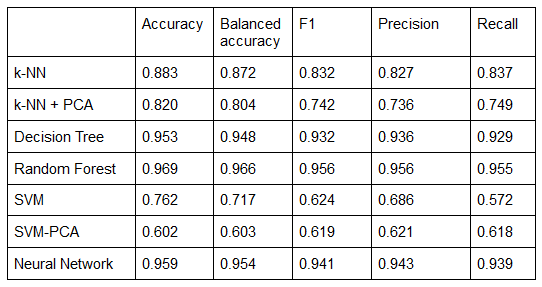
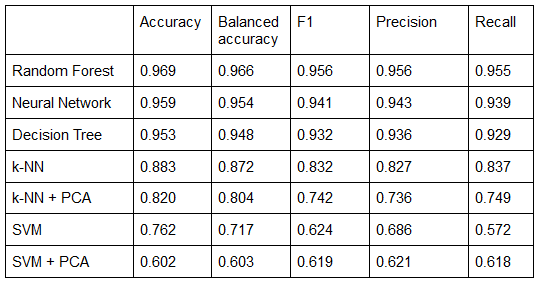
sorted by accuracy

Changed region(s): [[0.0, 0.0, 1.0, 0.9929]]

diff --git a/README.md b/README.md
@@ -84,22 +84,47 @@ Our work is directly useful in a real-world situation: it could be implemented i
 
 ### Supervised Learning
 
-### 1. Decision Tree
+### 1. Random Forest
 
-Decision Tree
-    * We used a single decision tree and evaluated the model performance with different max_depths ranging from 5 to 80 (in increments of 10). We additionally varied the search criteria, selecting entropy and gini as potential solutions. We ultimately found that the entropy criterion with a max depth of 20 was the best.
-    * We used grid search to optimize hyperparameters on the validation dataset, namely: 
-        * Criterion (gini or entropy)
-        * Max depth
-    * The best decision tree was the one with entropy criterion and max depth of 20: [Accuracy: 0.950, Balanced accuracy: 0.945, F1: 0.928, Precision: 0.926, Recall: 0.930]
-    * We retrained a decision tree with these hyperparameters on merged training and validation data and it yielded the following test results:
-        * F1: 0.932
-        * Accuracy: 0.953
-        * Balanced accuracy: 0.948
-        * MCC: 0.897
-        * Precision: 0.936
-        * Recall: 0.929
-        * FPR: 0.034
+* We used random forest and we tested it with different max_depths from 5 to 50  and n_estimators from 10 to 70. We found that test scores such as accuracies go up as max_depths and n_estimators increase until they reach a certain height. There are very little or no changes starting from max_depths of 30 and n_estimators of 40. The final scores are listed below:
+    * F1: 0.956
+    * Accuracy: 0.969
+    * Balanced accuracy: 0.966
+    * MCC: 0.932
+    * Precision: 0.956
+    * Recall: 0.955
+    * FPR: 0.023
+
+<img src="images\rf_result.png" alt="rf_result.png">
+
+### 2. Neural Net
+
+* We used a simple neural network with 3 hidden (linear) layers with ReLU activation functions, batch normalization, and dropouts after each linear layer with 0.1 probability. We could see that the results were quite good but even with hyperparameter tuning, the neural network couldn’t achieve better results. The final test results are as follows:
+    * F1: 0.956
+    * Accuracy: 0.969
+    * Balanced accuracy: 0.966
+    * MCC: 0.932
+    * Precision: 0.956
+    * Recall: 0.955
+    * FPR: 0.023
+
+<img src="images\nn_result.png" alt="nn_result.png">
+
+### 3. Decision Tree
+
+* We used a single decision tree and evaluated the model performance with different max_depths ranging from 5 to 80 (in increments of 10). We additionally varied the search criteria, selecting entropy and gini as potential solutions. We ultimately found that the entropy criterion with a max depth of 20 was the best.
+* We used grid search to optimize hyperparameters on the validation dataset, namely: 
+    * Criterion (gini or entropy)
+    * Max depth
+* The best decision tree was the one with entropy criterion and max depth of 20: [Accuracy: 0.950, Balanced accuracy: 0.945, F1: 0.928, Precision: 0.926, Recall: 0.930]
+* We retrained a decision tree with these hyperparameters on merged training and validation data and it yielded the following test results:
+    * F1: 0.932
+    * Accuracy: 0.953
+    * Balanced accuracy: 0.948
+    * MCC: 0.897
+    * Precision: 0.936
+    * Recall: 0.929
+    * FPR: 0.034
 
 <img src="images\dt_new_result.png" alt="dt_new_result.png">
 
@@ -112,65 +137,35 @@ Decision Tree
     * “time_domain_activation” corresponds to domain activation time (in days) - this sounds like a reasonable feature to be helpful to determine whether a web page is or is not phishing.
     * “directory_length” corresponds to the length of the directory section of URL - this might sound reasonable since phishing websites might try to use nested folders to create longer and therefore less readable URL.
 
-### 2. k-NN
+### 4. k-NN
 
-k-NN
-    * We used grid search to optimize hyperparameters on the validation dataset, namely: 
-        * Number of neighbors
-    * The best k-NN classifier was the one using a single neighbor (k = 1): Accuracy: 0.883, Balanced accuracy: 0.872, F1: 0.832, Precision: 0.827, Recall: 0.837
-    * We retrained a k-NN classifier with this hyperparameter on merged training and validation data and it yielded the following test results:
-        * F1: 0.846
-        * Accuracy: 0.893
-        * Balanced accuracy: 0.883
-        * MCC: 0.764
-        * Precision: 0.841
-        * Recall: 0.851
-        * FPR: 0.085
+* We used grid search to optimize hyperparameters on the validation dataset, namely: 
+    * Number of neighbors
+* The best k-NN classifier was the one using a single neighbor (k = 1): Accuracy: 0.883, Balanced accuracy: 0.872, F1: 0.832, Precision: 0.827, Recall: 0.837
+* We retrained a k-NN classifier with this hyperparameter on merged training and validation data and it yielded the following test results:
+    * F1: 0.846
+    * Accuracy: 0.893
+    * Balanced accuracy: 0.883
+    * MCC: 0.764
+    * Precision: 0.841
+    * Recall: 0.851
+    * FPR: 0.085
 
 <img src="images\knn_result.png" alt="knn_result.png">
 
 * Reasons
     * Having k = 1 as the best hyperparameter might be explained by web pages being highly diverse but when there is one that is almost identical (i.e. the closest neighbor) they will likely share the class label (being or not being a phishing web page).
 
-### 3. Neural Net
-
-Neural Net
-    * We used a simple neural network with 3 hidden (linear) layers with ReLU activation functions, batch normalization, and dropouts after each linear layer with 0.1 probability. We could see that the results were quite good but even with hyperparameter tuning, the neural network couldn’t achieve better results. The final test results are as follows:
-        * F1: 0.956
-        * Accuracy: 0.969
-        * Balanced accuracy: 0.966
-        * MCC: 0.932
-        * Precision: 0.956
-        * Recall: 0.955
-        * FPR: 0.023
-
-<img src="images\nn_result.png" alt="nn_result.png">
-
-### 4. Random Forest
-
-Random Forest
-    * We used random forest and we tested it with different max_depths from 5 to 50  and n_estimators from 10 to 70. We found that test scores such as accuracies go up as max_depths and n_estimators increase until they reach a certain height. There are very little or no changes starting from max_depths of 30 and n_estimators of 40. The final scores are listed below:
-        * F1: 0.956
-        * Accuracy: 0.969
-        * Balanced accuracy: 0.966
-        * MCC: 0.932
-        * Precision: 0.956
-        * Recall: 0.955
-        * FPR: 0.023
-
-<img src="images\rf_result.png" alt="rf_result.png">
-
 ### 5. SVM
 
-SVM
-    * We used the SVM model provided in the sklearn library (sklearn.SVC()). The library provides four different kernels for the SVC, linear, poly, RBF, and sigmoid. Through testing, we found that the RBF kernel gave the best results with gamma scaling turned on, which means a value of 1 / (n_features * X.var()) is used for the value of gamma instead of 1 / (n_features). Both linear and poly kernels gave terrible results, with accuracies of around 20%, whereas the sigmoid kernel gave accuracies of around 50%. The best result was observed with the RBF kernel. The final scores are listed below:
-        * F1: 0.624
-        * Accuracy: 0.762
-        * Balanced accuracy: 0.717
-        * MCC: 0.455
-        * Precision: 0.686
-        * Recall: 0.572
-        * FPR: 0.138
+* We used the SVM model provided in the sklearn library (sklearn.SVC()). The library provides four different kernels for the SVC, linear, poly, RBF, and sigmoid. Through testing, we found that the RBF kernel gave the best results with gamma scaling turned on, which means a value of 1 / (n_features * X.var()) is used for the value of gamma instead of 1 / (n_features). Both linear and poly kernels gave terrible results, with accuracies of around 20%, whereas the sigmoid kernel gave accuracies of around 50%. The best result was observed with the RBF kernel. The final scores are listed below:
+    * F1: 0.624
+    * Accuracy: 0.762
+    * Balanced accuracy: 0.717
+    * MCC: 0.455
+    * Precision: 0.686
+    * Recall: 0.572
+    * FPR: 0.138
 
 <img src="images\svm_result.png" alt="svm_result.png">
 
@@ -181,16 +176,15 @@ SVM
 
 ### 1. k-NN - data with reduced dimensionality (PCA) - 2 features
 
-k-NN - data with reduced dimensionality (PCA) - 2 features
-    * The best k-NN classifier was the one using a single neighbor (k = 1): Accuracy: 0.820, Balanced accuracy: 0.804, F1: 0.742, Precision: 0.736, Recall: 0.749
-    * We retrained a k-NN classifier with this hyperparameter on merged training and validation data and it yielded the following test results:
-        * F1: 0.756
-        * Accuracy: 0.831
-        * Balanced accuracy: 0.814
-        * MCC: 0.627
-        * Precision: 0.753
-        * Recall: 0.760
-        * FPR: 0.132
+* The best k-NN classifier was the one using a single neighbor (k = 1): Accuracy: 0.820, Balanced accuracy: 0.804, F1: 0.742, Precision: 0.736, Recall: 0.749
+* We retrained a k-NN classifier with this hyperparameter on merged training and validation data and it yielded the following test results:
+    * F1: 0.756
+    * Accuracy: 0.831
+    * Balanced accuracy: 0.814
+    * MCC: 0.627
+    * Precision: 0.753
+    * Recall: 0.760
+    * FPR: 0.132
 
 <img src="images\knn_pca_result.png" alt="knn_pca_result.png">
 
@@ -199,15 +193,14 @@ k-NN - data with reduced dimensionality (PCA) - 2 features
 
 ### 2. SVM - data with reduced dimensionality (PCA)
 
-SVM - data with reduced dimensionality (PCA)
-    * We applied PCA and ran our dataset against the same above SVM model we used for supervised learning. The final scores are listed below:
-        * F1: 0.619
-        * Accuracy: 0.602
-        * Balanced accuracy: 0.603
-        * MCC: 0.204
-        * Precision: 0.621
-        * Recall: 0.618
-        * FPR: 0.414
+* We applied PCA and ran our dataset against the same above SVM model we used for supervised learning. The final scores are listed below:
+    * F1: 0.619
+    * Accuracy: 0.602
+    * Balanced accuracy: 0.603
+    * MCC: 0.204
+    * Precision: 0.621
+    * Recall: 0.618
+    * FPR: 0.414
 
 <img src="images\svm_pca_result.png" alt="svm_pca_result.png">
 
